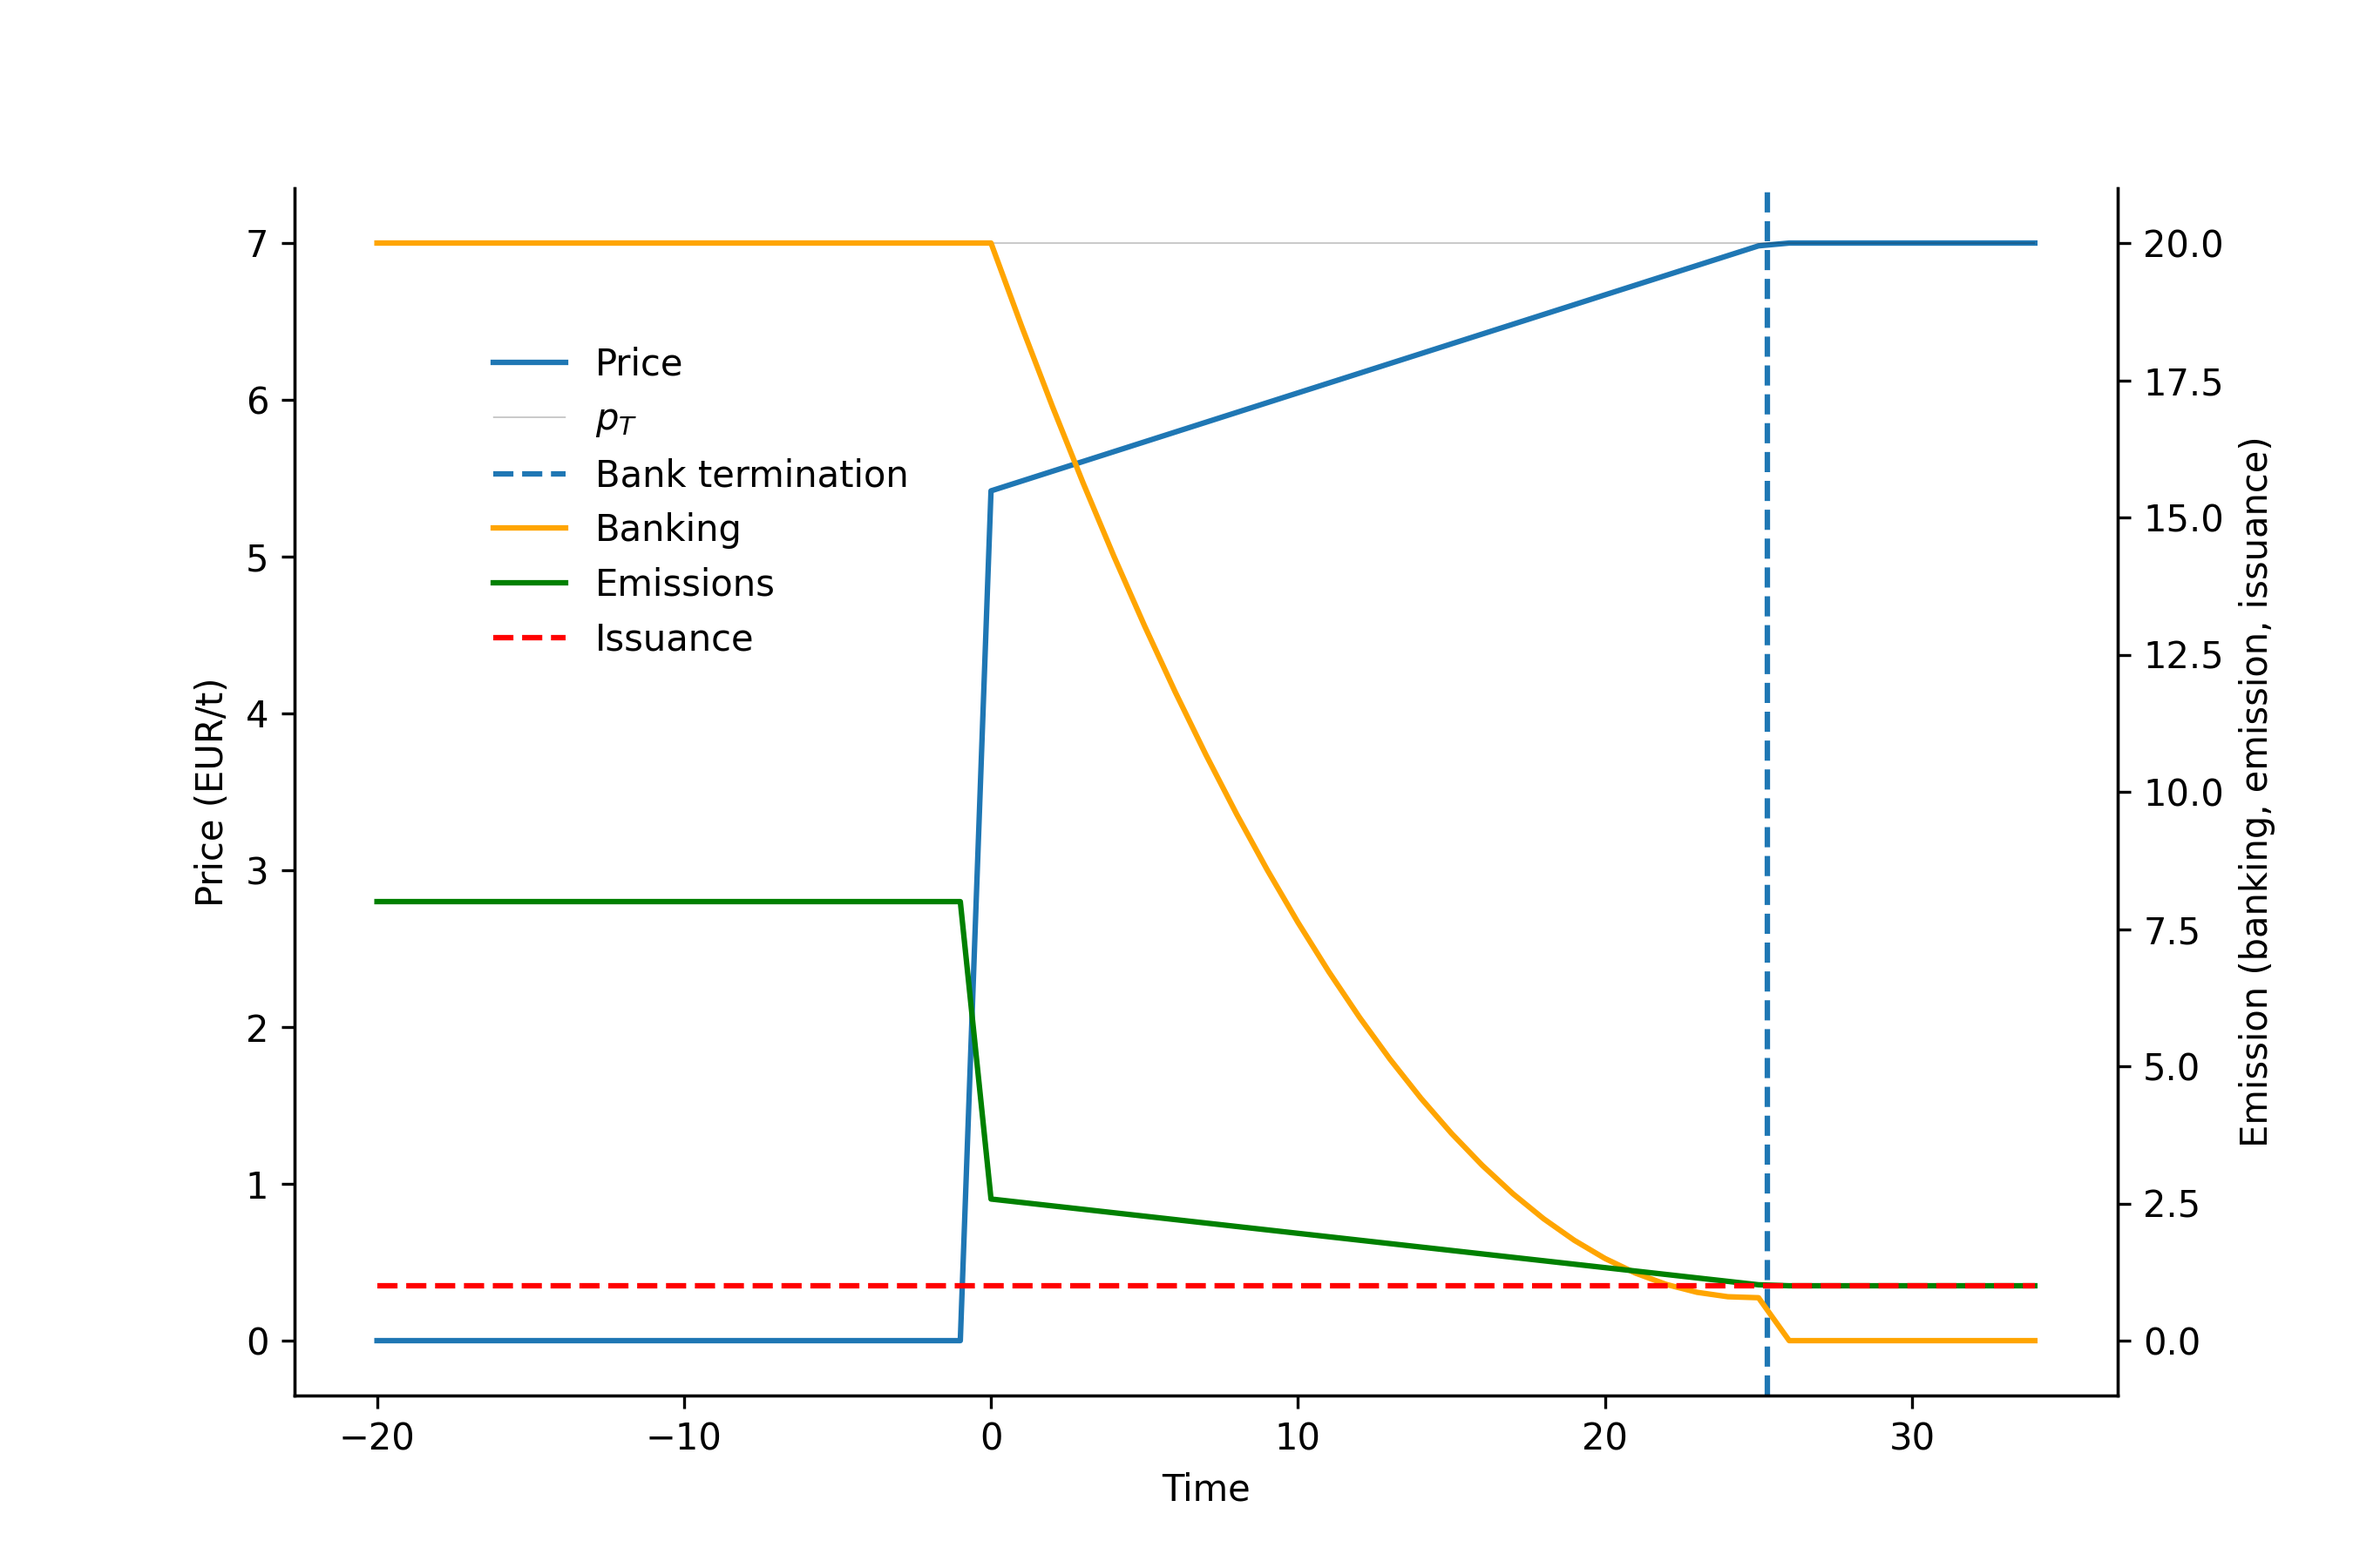
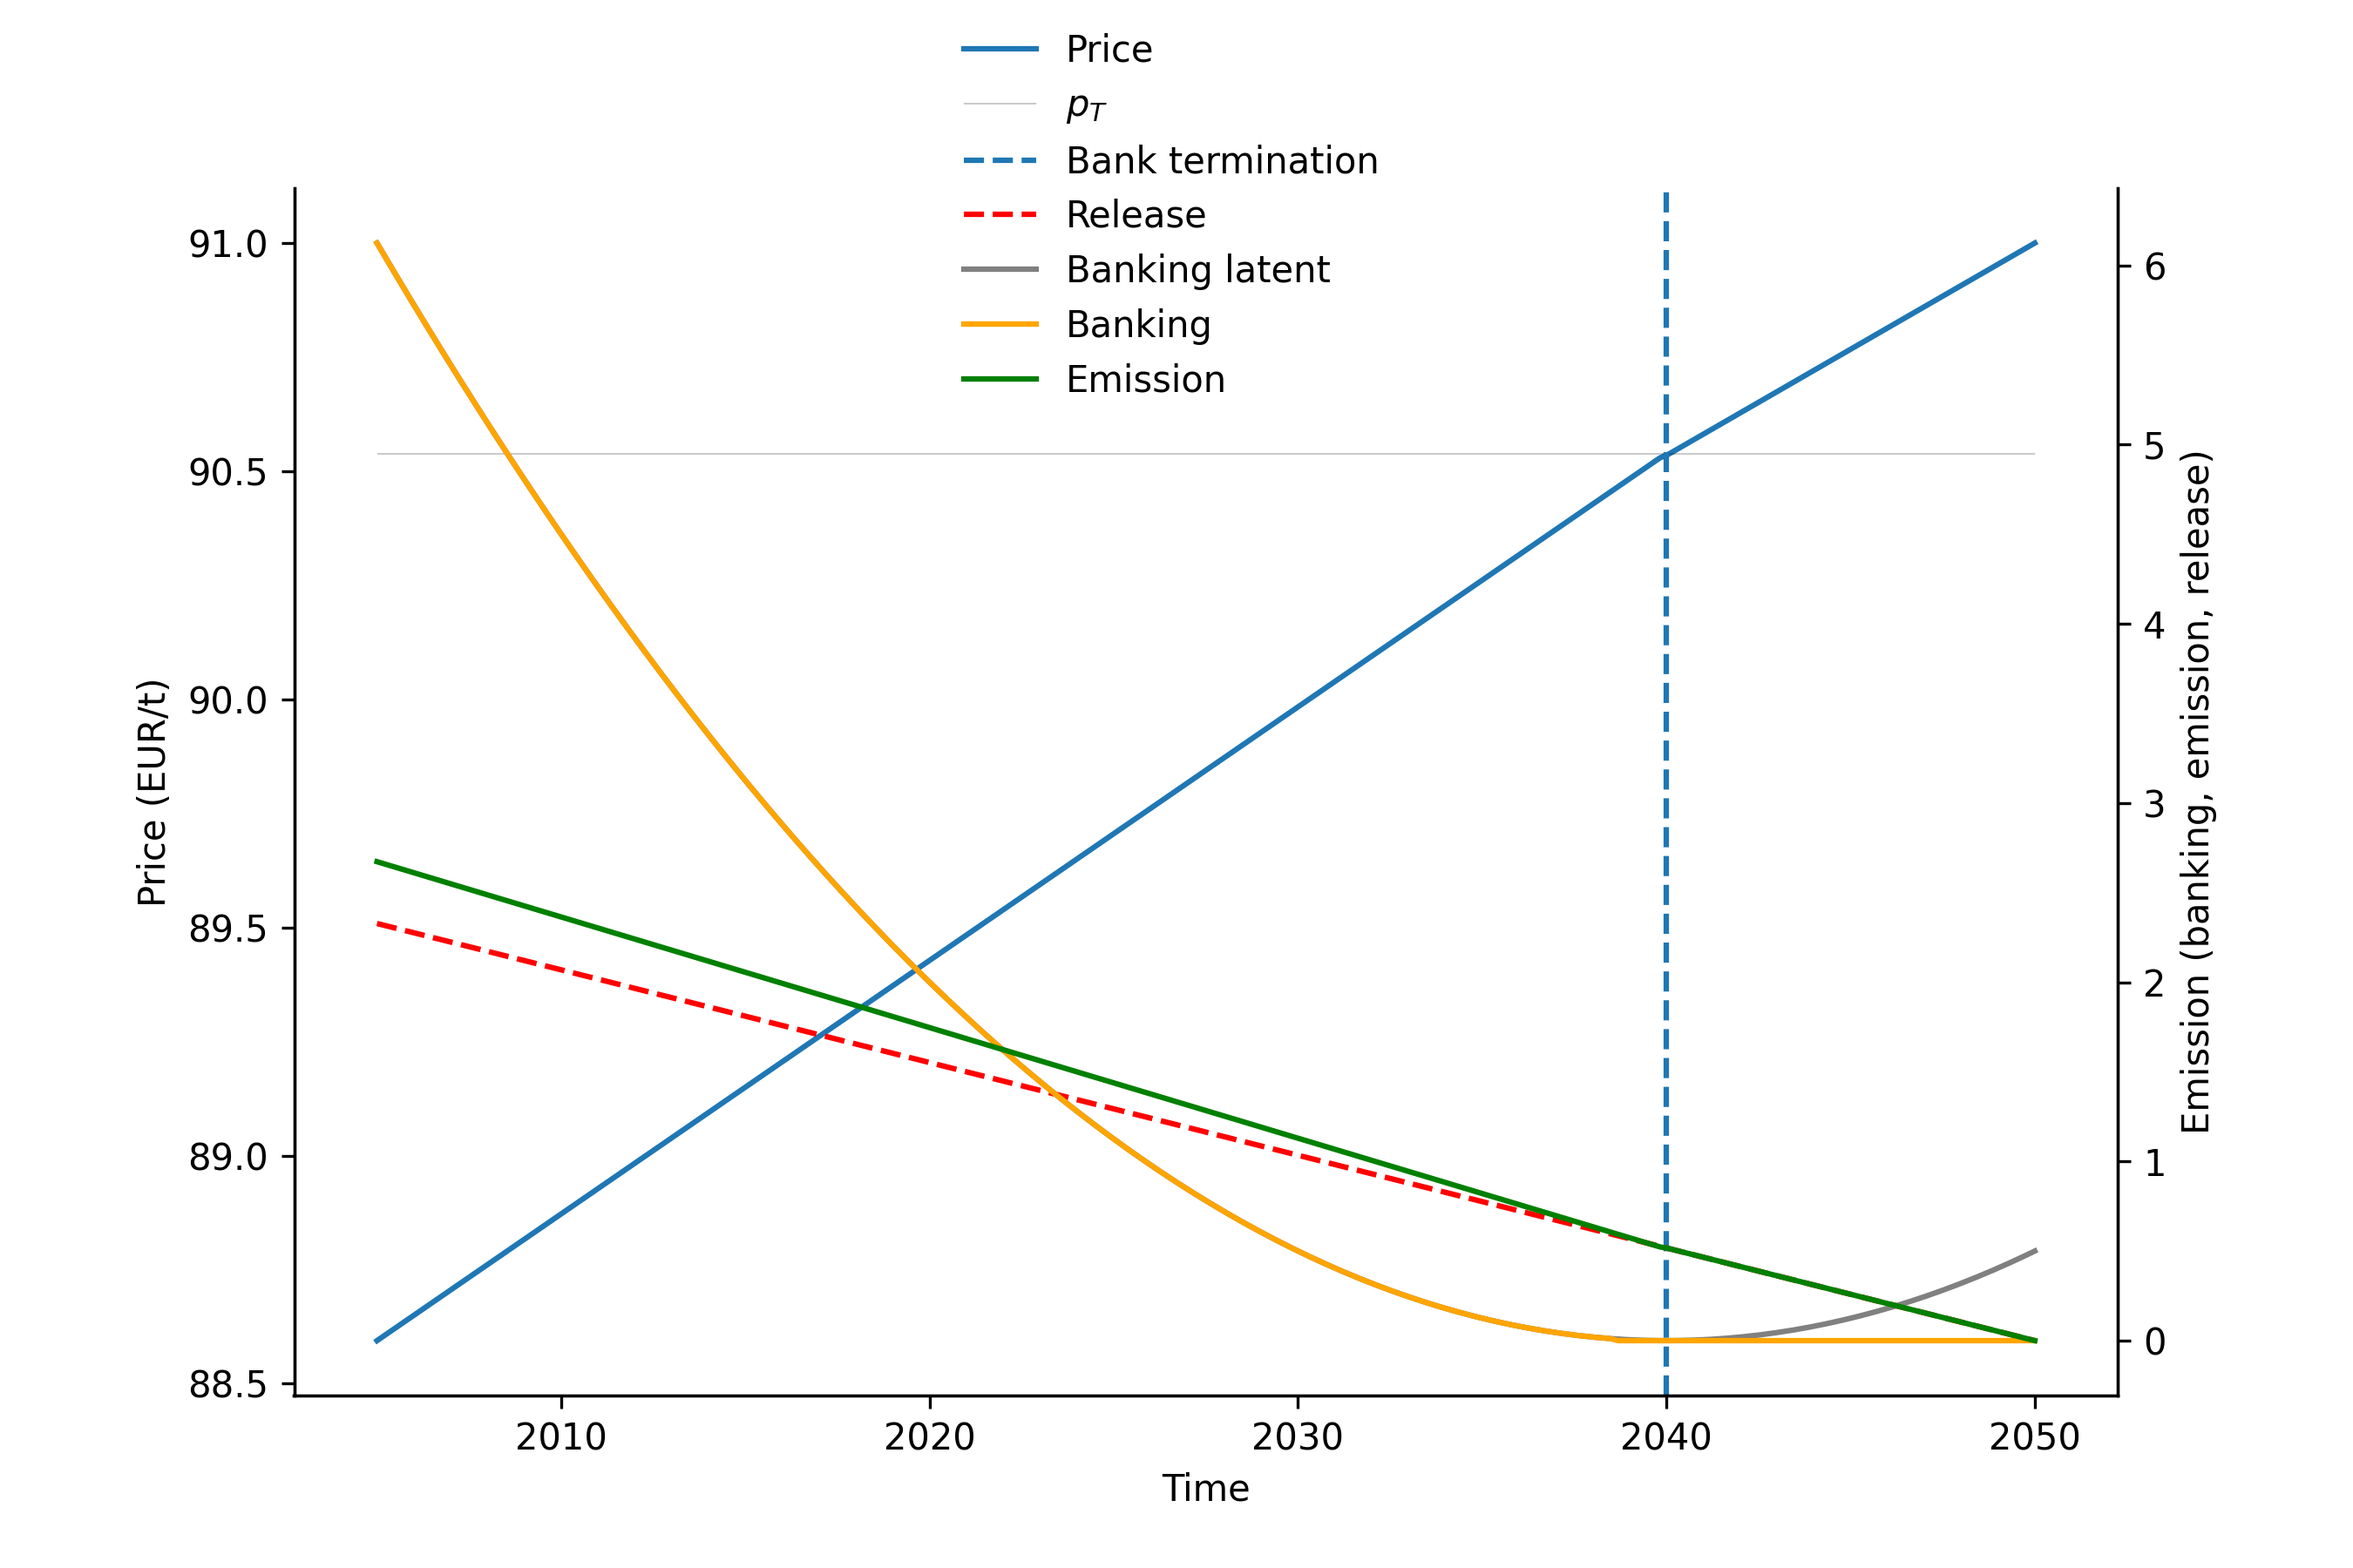
improved multiperiod

diff --git a/graphics.py b/graphics.py
@@ -1,0 +1,149 @@
+import numpy as np
+import matplotlib.pyplot as plt
+
+
+
+def main():
+	# =========================
+	# Resetting some parameters
+	# =========================
+	p = params
+	T_bank_termination = 35
+	denominator = 0.01
+	
+	p['alpha'] = 1/p["T_zero_emissions"]
+	p['s0'] = (p["omega"] * p["e0_bar"]+(hotelling_adj(p) - denominator))/p['alpha']
+	
+	phi = p['alpha']*p['s0'] - p["omega"] * p["e0_bar"]
+	denominator = hotelling_adj(p) - phi
+	params['b0'] = denominator * T_bank_termination**2/2
+
+
+	# =========================
+	# TIME GRID (beyond T_price)
+	# =========================
+	T_START = 2005
+	T = compute_T_min(params)
+	t = np.linspace(0,params["T_zero_emissions"], 200)  # 30% beyond T_price
+
+
+
+	# =========================
+	# COMPUTE SERIES
+	# =========================
+	b_t = banking(t, T, params)
+	b_t_actual = b_t*1  # Bank cannot be negative
+	nz = np.nonzero(b_t_actual <= 1e-2)[0]
+	if len(nz):
+		b_t_actual[nz[0]:] = 0
+	e_t = emissions(t, T, params)
+	p_t = prices(t, T, params)
+	s_t = release(params, t)
+	p_T = prices(T, T, params)
+
+	plot(t + T_START, p_t, b_t_actual, b_t, e_t, s_t, p_T, T+T_START)
+	a=0
+
+
+# =========================
+# PARAMETERS
+# =========================
+params = {
+	"theta": 0.9,
+	"r": 0.05,
+	"eta": 0.1,
+	"omega": 0.00,
+	"e0_bar": 100.0,#Sets the price level, as the price at t=0 is kappa + theta*e0_bar
+	"kappa": 1.0,
+	"T_zero_emissions": 45
+}
+
+
+# =========================
+# FUNCTIONS
+# =========================
+def hotelling_adj(p):
+	h =  (1 / p["theta"]) * (p["r"] / (1 - p["eta"]))
+	return h
+
+
+def e_bar(p, t):
+	return p["e0_bar"] * (1 - p["omega"] * t)
+
+
+def release(p, t):
+	return p["s0"] * (1 - p["alpha"] * t)
+
+
+def banking(t, T, p):
+	A = hotelling_adj(p)
+	slope = A - p["s0"] * p["alpha"] + p["omega"] * p["e0_bar"]
+	b = p["b0"] - slope * t * (T - t / 2)
+	return b
+
+	import math
+
+import math
+
+def compute_T_min(params):
+
+	b0 = params["b0"]
+	s0 = params["s0"]
+	alpha = params["alpha"]
+	omega = params["omega"]
+	e0_bar = params["e0_bar"]
+
+	A = hotelling_adj(params)
+	denominator = A - s0 * alpha + omega * e0_bar
+	numerator = 2 * b0
+	T_min = (numerator / denominator)**0.5
+
+	return T_min
+
+
+def emissions(t, T, p):
+	A = hotelling_adj(p)
+	st = release(p, t)
+	e_t = st + (A + p["omega"] * p["e0_bar"] - p["alpha"] * p["s0"]) * (T-0.5 - t)
+	if type(t)==np.ndarray:
+		bank_ends = np.nonzero(t>= T)[0][0]
+		e_t[bank_ends:]= release(p, t)[bank_ends:]
+	return e_t
+
+
+def prices(t, T, p):
+	ebart = e_bar(p,t)
+	return p["kappa"] + p["theta"] * (ebart - emissions(t, T, p)) 
+
+
+def plot(t, p, b_actual, b_latent, e, s_t, pT,root):
+	fig, ax = plt.subplots(figsize=(9, 6))
+	ax.plot(t, p) 
+	ax.plot(t, pT*np.ones_like(t), color="black", linewidth=0.1)
+	if root is not None and 0.0 <= root <= max(t):
+		ax.axvline(root, linestyle="--", label=f"Smallest root t* = {root:.4g}")
+	ax.set_xlabel("Time")
+	ax.set_ylabel("Price (EUR/t)")
+
+	ax2 = ax.twinx()    
+	ax2.plot(t, s_t, color="red", linestyle="--")
+	ax2.plot(t, b_latent, color="grey", label="Banking (Latent)")
+	ax2.plot(t, b_actual, color="orange", label="Banking (Actual)") 
+	ax2.plot(t, e, color="green") 
+	
+	ax2.set_ylabel("Emission (banking, emission, release)")
+
+	for spine in ['top']:
+		ax.spines[spine].set_visible(False)
+		ax2.spines[spine].set_visible(False)
+
+	fig.legend(["Price","$p_T$", "Bank termination", "Release", "Banking latent", "Banking", "Emission"],  frameon=False, 
+			loc="upper right", bbox_to_anchor=(0.6, 1.0))
+	#plt.ylim(-0.5, 1.1)
+	plt.savefig("output/inequalities_bank.png", dpi=300)
+	plt.show()
+	a=0
+	 
+
+main()
+

diff --git a/price_process.py b/price_process.py
@@ -47,6 +47,9 @@ def plot_bank(e_bar, alpha, S, theta, eta, r):
 	b = banking(t, B0, PHI, ALPHA, S, e_bar, theta, eta, R, DeltaT)		
 	banking_end = solve_b_zero_times(PHI, B0, theta, R, eta, DeltaT, e_bar, ALPHA, S)
 
+	if banking_end is None:
+		banking_end = T_max_float-DeltaT
+
 	plot(t, p, b, e, alpha*S, pT, root=banking_end)
 	a=0
 	
